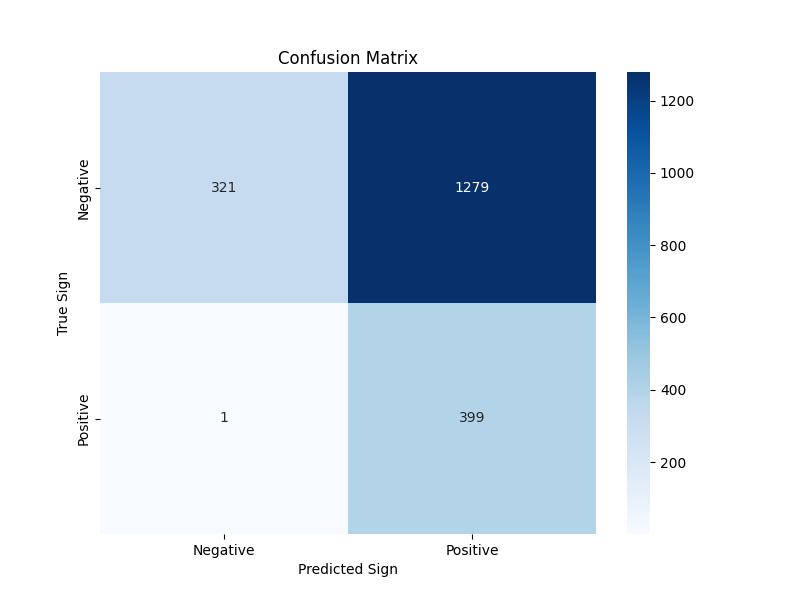
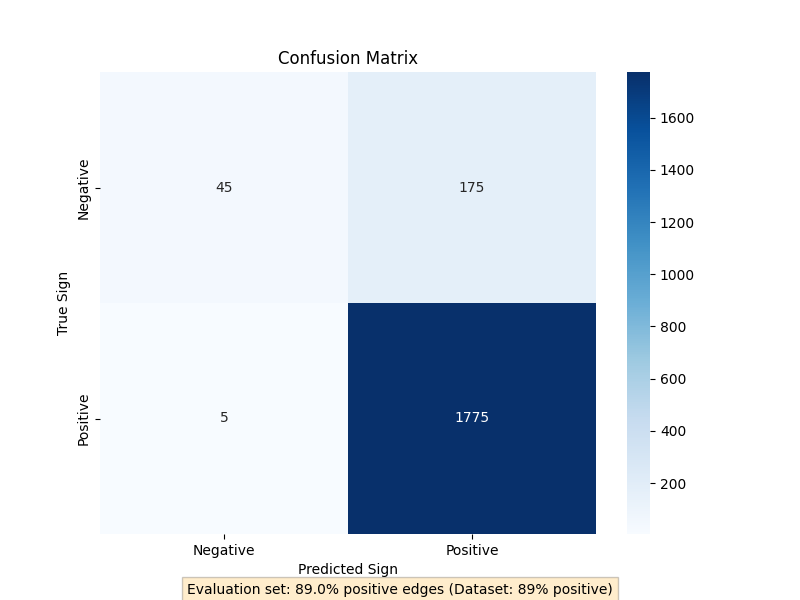
Fix confusion matrix distribution

diff --git a/src/evaluation.py b/src/evaluation.py
@@ -225,8 +225,27 @@ def plot_confusion_matrix(y_true, y_pred, save_path=None):
     y_pred: Predicted edge signs
     save_path: Path to save the image (optional)
     """
+    # Print class distribution in the evaluation set for verification
+    unique, counts = np.unique(y_true, return_counts=True)
+    class_dist = dict(zip(unique, counts))
+    total = len(y_true)
+    print("Evaluation set class distribution:")
+    for cls, count in class_dist.items():
+        print(f"  Class {cls}: {count} edges ({count/total*100:.1f}%)")
+    
     # Calculate confusion matrix
     cm = confusion_matrix(y_true, y_pred)
+    
+    # Get positive and negative counts for debugging
+    pos_true = np.sum(y_true == 1)
+    neg_true = np.sum(y_true == -1)
+    pos_ratio = pos_true / len(y_true)
+    
+    # Print warning if distribution differs from expected
+    if pos_ratio < 0.7:  # If less than 70% positive (expected 89%)
+        print(f"\nWARNING: Evaluation set has {pos_ratio:.1%} positive edges")
+        print(f"This differs from the expected 89% in the original dataset")
+        print(f"Positive: {pos_true}, Negative: {neg_true}, Total: {len(y_true)}")
     
     # Plot confusion matrix
     plt.figure(figsize=(8, 6))
@@ -236,6 +255,11 @@ def plot_confusion_matrix(y_true, y_pred, save_path=None):
     plt.xlabel('Predicted Sign')
     plt.ylabel('True Sign')
     plt.title('Confusion Matrix')
+    
+    # Add dataset statistics for reference
+    plt.figtext(0.5, 0.01, 
+               f"Evaluation set: {pos_ratio:.1%} positive edges (Dataset: 89% positive)",
+               ha="center", fontsize=10, bbox={"facecolor":"orange", "alpha":0.2})
     
     if save_path:
         plt.savefig(save_path)

diff --git a/notebooks/reduced_parallel_k_fold_evaluation.py b/notebooks/reduced_parallel_k_fold_evaluation.py
@@ -177,7 +177,7 @@ def main():
     print("Running quick evaluation...")
     
     # k=3
-    metrics_k3 = reduced_evaluation(G_connected, n_folds=4, cycle_length=4, predictions_per_fold=500, pos_edges_ratio=0.2)
+    metrics_k3 = reduced_evaluation(G_connected, n_folds=4, cycle_length=4, predictions_per_fold=500, pos_edges_ratio=0.89)
     
     print("\nStrict Evaluation Results (k=3):")
     for key, value in metrics_k3.items():

diff --git a/notebooks/reduced_k_fold_evaluation.py b/notebooks/reduced_k_fold_evaluation.py
@@ -195,7 +195,7 @@ def main():
     print("Running quick evaluation...")
     
     # k=3
-    metrics_k3 = reduced_evaluation(G_connected, n_folds=3, cycle_length=3, predictions_per_fold=20, pos_edges_ratio=0.5)
+    metrics_k3 = reduced_evaluation(G_connected, n_folds=3, cycle_length=3, predictions_per_fold=20, pos_edges_ratio=0.89)
     
     print("\nStrict Evaluation Results (k=3):")
     for key, value in metrics_k3.items():
